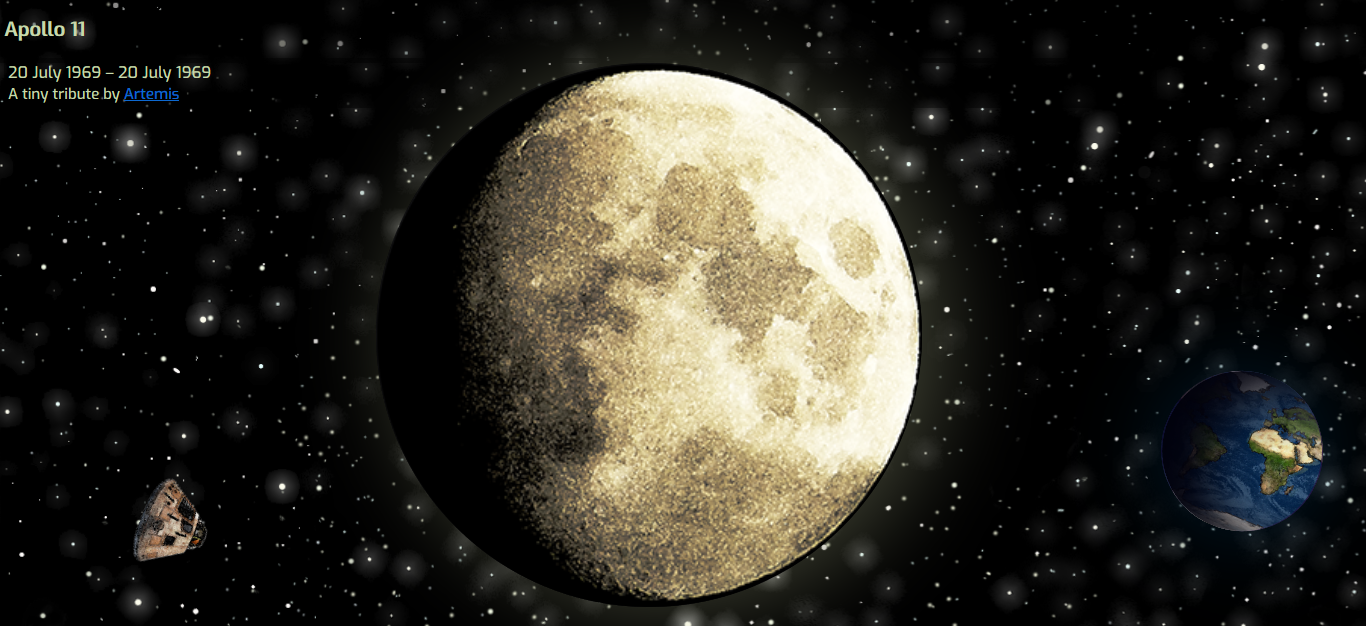
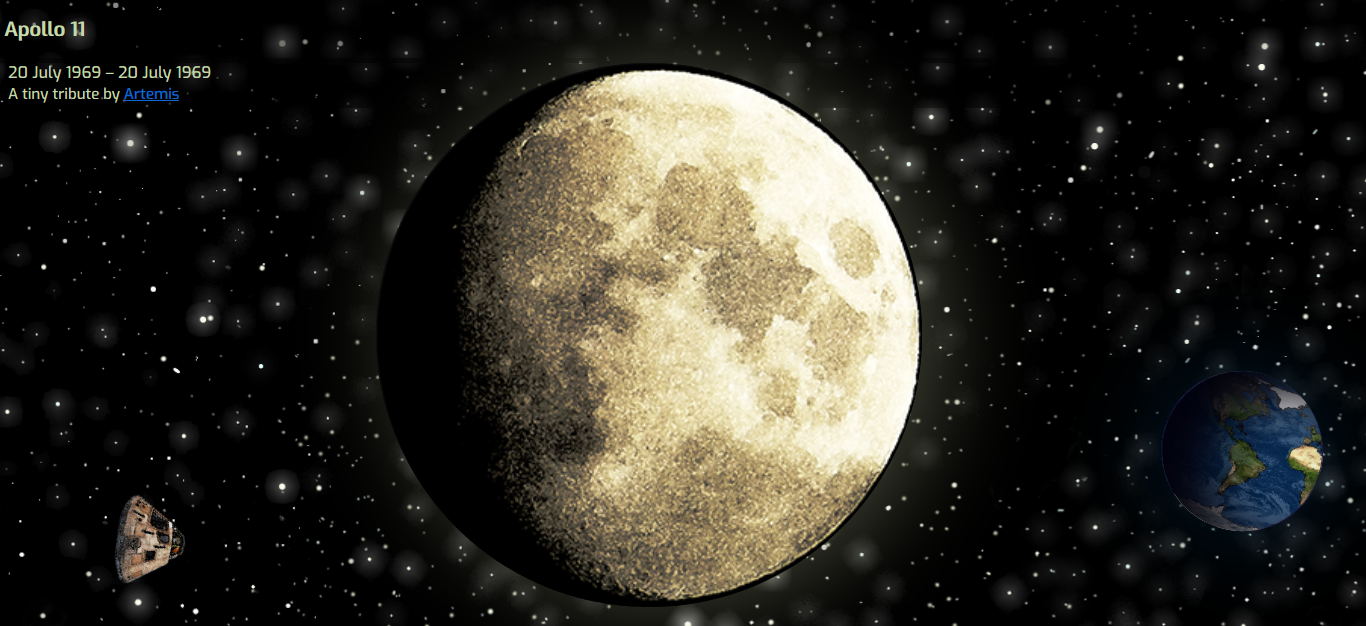
Added media query for screens under 5

Changed region(s): [[0.8609, 0.607, 0.9839, 0.8498], [0.0615, 0.7588, 0.1537, 0.9409]]

diff --git a/style.css b/style.css
@@ -7,6 +7,8 @@ body {
     background-size: cover;
     background-repeat: no-repeat;
     overflow-y: hidden;
+    height: 100vh;
+    width: 100vw;
     margin: 0;
     padding: 0;
 }
@@ -43,6 +45,7 @@ h1 {
     -ms-animation: yMotion 15s infinite ease-out;
     -webkit-animation: yMotion 15s infinite ease-out;
     animation: yMotion 15s infinite ease-out;
+    z-index: 3;
 }
 
 #Apollo11CM {
@@ -58,6 +61,7 @@ h1 {
     grid-row: 2/3;
     display: flex;
     flex-direction: column;
+    z-index: 2;
 }
 
 #moon img {
@@ -72,12 +76,15 @@ h1 {
 }
 
 #Earth-container {
+    display: flex;
+    flex-direction: row;
     grid-column: 3/4;
     grid-row: 2;
     align-self: end;
     justify-self: start;
     height: 12rem;
     width: 12rem;
+    z-index: 1;
 }
 
 #Earth {
@@ -137,4 +144,71 @@ h1 {
         100% {
             background-position:2048 0;
         }
+    }
+
+    /*SMALLER SCREENS*/
+
+    @media (max-width: 500px) {
+
+        body {
+            grid-template-rows: 20vh 40vh auto;
+        }
+
+        #Apollo11CM {
+            width: 16vw;
+            height: auto;
+        }
+        
+        #moon img {
+            width: 50vw;
+            height: auto;
+        }
+
+        #Earth-container {
+            justify-content: flex-end;
+            grid-column: 3/4;
+            grid-row: 2;
+            align-self: end;
+            justify-self: end;
+        }
+
+        #Earth {
+            height: 4rem;
+            width: 4rem;
+            margin-top: 50px;
+            margin-right: 10px;
+            -ms-box-shadow: inset 25px 0 25px 5px rgb(1, 1, 12), 1px 0px 90px 5px #022b4986;
+            -webkit-box-shadow: inset 25px 0 25px 5px rgb(1, 1, 12), 1px 0px 90px 5px #022b4986;
+             box-shadow: inset 25px 0 25px 5px rgb(1, 1, 12), 1px 0px 90px 5px #022b4986;
+        }
+
+        #info {
+            grid-column: 2/4;
+            grid-row: 3/4;
+            justify-self: end;
+            align-self: end;
+        }
+
+        @keyframes xMotion {
+            50% {
+            -ms-webkit-animation-timing-function: ease-in;
+            -webkit-animation-timing-function: ease-in;
+                animation-timing-function: ease-in;
+            -ms-transform: translateX(40vw) rotate(360deg);
+            -webkit-transform: translateX(40vw) rotate(360deg);
+                transform: translateX(40vw) rotate(360deg);
+            }
+        }
+        
+        @keyframes yMotion {
+            50% {
+            -ms-animation-timing-function: ease-out;
+            -webkit-animation-timing-function: ease-out;
+                animation-timing-function: ease-out;
+            -ms-transform: translateY(-72vh);
+            -webkit-transform: translateY(-72vh);
+                transform: translateY(-72vh);
+            }
+        }
+
     }
